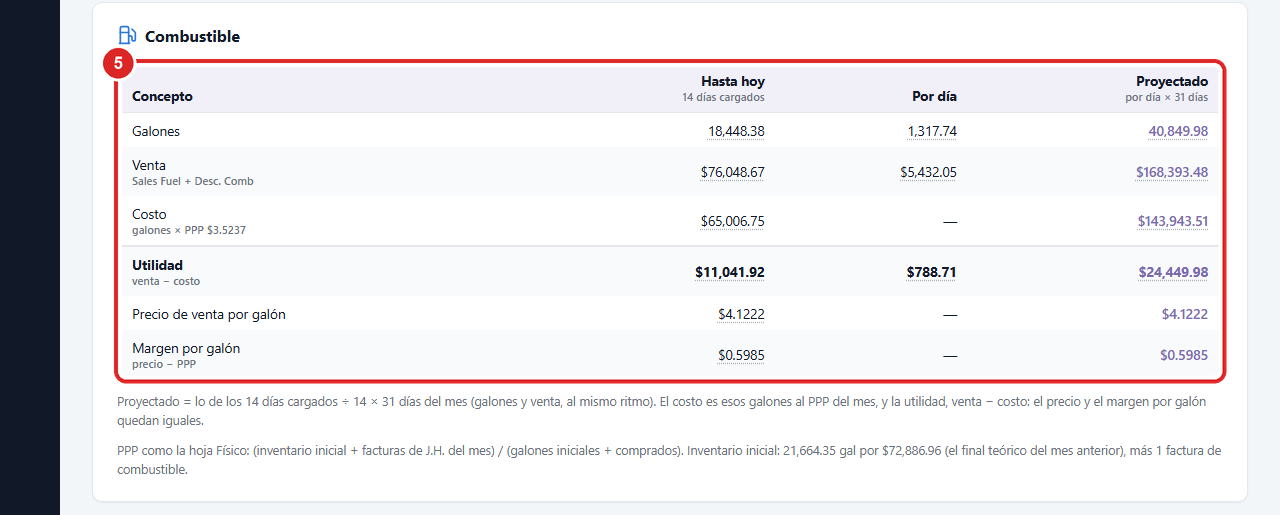
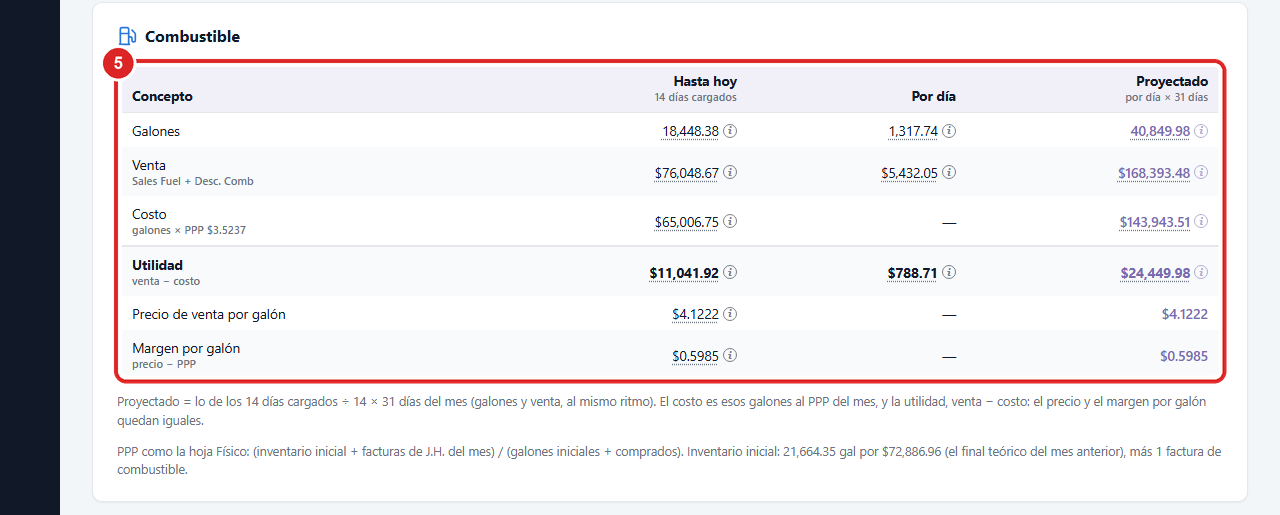
Proyecciones, bloque 2: C-Store bruto de descuentos, % como supuesto, "i" con clic y lista de lo sin categoría
- La venta del C-Store dice que es bruta de descuentos, con un renglón "Descuentos (Desc. Otros)" que no se resta (los % van sobre la venta bruta, como el Excel).
- Los % teóricos en azul con la marca "supuesto" (también en el desglose); siguen editables en la página.
- Cada número con su cuenta lleva una "i" al lado que abre el cartel con un clic o un toque (sirve en el celular); el subrayado se ve más.
- El aviso de Chase sin categoría (Panel y desglose) trae "Ver los movimientos" con la lista.
- Manual y capturas al día.

diff --git a/templates/reportes_proyecciones.html b/templates/reportes_proyecciones.html
@@ -109,6 +109,15 @@
   .proy-source.bad i { background: var(--error); }
   .proy-source.bad { border-color: #FECACA; background: #FEF2F2; }
   .proy-sources-note { flex-basis: 100%; color: var(--error); font-weight: 600; }
+  .proy-pending-list { margin-top: 8px; }
+  .proy-pending-list summary { font-weight: 600; }
+  .proy-pending-list table { margin-top: 8px; border-collapse: collapse; font-size: 12.5px; font-variant-numeric: tabular-nums; }
+  .proy-pending-list td { padding: 3px 10px 3px 0; border-bottom: 1px solid #FDE68A; vertical-align: top; }
+  .proy-pending-list td.num { text-align: right; white-space: nowrap; }
+  /* Los % teóricos son supuestos, no datos (2026-11-24). */
+  .proy-assume { color: #1D4ED8; }
+  .proy-margin-input.proy-assume { border-color: #93C5FD; background: #EFF6FF; color: #1D4ED8; font-weight: 600; }
+  .proy-assume-tag { display: inline-block; font-size: 10.5px; font-weight: 700; text-transform: uppercase; letter-spacing: 0.03em; color: #1D4ED8; background: #EFF6FF; border: 1px solid #BFDBFE; border-radius: 999px; padding: 0 6px; margin-left: 4px; }
   .proy-alert { margin-bottom: 18px; padding: 12px 16px; border-radius: var(--radius); border: 1px solid #FCD34D; background: #FFFBEB; font-size: 13.5px; line-height: 1.5; }
   /* El puente de la venta a la utilidad neta (2026-11-24). */
   .proy-bridge { width: 100%; border-collapse: collapse; font-size: 14px; font-variant-numeric: tabular-nums; }
@@ -198,6 +207,16 @@
   Hay <strong>{{ money(net.pending.amount) }}</strong> en {{ net.pending.count }} débito{{ '' if net.pending.count == 1 else 's' }} de Chase sin categoría en {{ month_name|lower }}.
   No entran en la utilidad neta hasta que los categorices en <a href="{{ url_for('chase_historial', year=year, month=month) }}">Carga de Datos → Chase</a>
   (si son pagos de combustible a J.H., ya están contados en el costo por el PPP).
+  <details class="proy-pending-list">
+    <summary>Ver los movimientos</summary>
+    <table>
+      <tbody>
+        {% for it in net.pending["items"] %}
+        <tr><td>{{ it.date[8:10] }}/{{ it.date[5:7] }}</td><td>{{ it.description }}</td><td class="num">{{ money(it.amount) }}</td></tr>
+        {% endfor %}
+      </tbody>
+    </table>
+  </details>
 </div>
 {% endif %}
 
@@ -206,19 +225,19 @@
   {# La utilidad neta, y tocándola el desglose (pedido del usuario, 2026-11-02). #}
   <a class="proy-kpi proy-kpi-hero proy-kpi-link" href="{{ url_for('proyecciones_utilidad_neta', year=year, month=month) }}">
     <div class="proy-kpi-label">Utilidad neta proyectada <span class="proy-kpi-more">Ver desglose &rarr;</span></div>
-    <div class="proy-kpi-value" data-count="{{ net.net.proj or 0 }}"{{ fx(net.net.formula.proj) }}>{{ money(net.net.proj, 0) }}</div>
+    <div class="proy-kpi-value"><span data-count="{{ net.net.proj or 0 }}"{{ fx(net.net.formula.proj) }}>{{ money(net.net.proj, 0) }}</span></div>
     <div class="proy-kpi-sub">bruta {{ money(net.gross.proj, 0) }} − gastos {{ money(net.expenses.proj, 0) }}</div>
   </a>
   <div class="proy-kpi proy-kpi-fuel">
     <div class="proy-kpi-label">{{ icon_fuel() }}Combustible</div>
-    <div class="proy-kpi-value" data-count="{{ p.fuel_proj.sales or 0 }}"{{ fx(f.fuel_sales_proj) }}>{{ money(p.fuel_proj.sales, 0) }}</div>
+    <div class="proy-kpi-value"><span data-count="{{ p.fuel_proj.sales or 0 }}"{{ fx(f.fuel_sales_proj) }}>{{ money(p.fuel_proj.sales, 0) }}</span></div>
     <div class="proy-kpi-sub">venta proyectada · {{ num(p.fuel_proj.gallons, 0) }} gal</div>
   </div>
   {# Tocando el C-Store se baja al cuadro por rubro (pedido del usuario, 2026-11-02). #}
   <a class="proy-kpi proy-kpi-cstore proy-kpi-link" href="#proy-cstore">
     <div class="proy-kpi-label">{{ icon_cstore() }}C-Store</div>
-    <div class="proy-kpi-value" data-count="{{ cs.proj or 0 }}"{{ fx(f.cstore.proj) }}>{{ money(cs.proj, 0) }}</div>
-    <div class="proy-kpi-sub">venta proyectada · margen {{ pct(cs.margin) }}</div>
+    <div class="proy-kpi-value"><span data-count="{{ cs.proj or 0 }}"{{ fx(f.cstore.proj) }}>{{ money(cs.proj, 0) }}</span></div>
+    <div class="proy-kpi-sub">venta proyectada, bruta de descuentos · margen {{ pct(cs.margin) }}</div>
   </a>
 </div>
 
@@ -404,7 +423,7 @@
     <div class="historial-table-wrap">
       <table class="historial-table proy-num-table">
         <thead>
-          <tr><th>Rubro</th><th>Vendido</th><th>% teórico</th><th>Utilidad</th><th>Proyectado</th><th>Utilidad proyectada</th></tr>
+          <tr><th>Rubro</th><th>Vendido<span class="proy-th-sub">bruto de descuentos</span></th><th>% teórico <span class="proy-assume-tag">supuesto</span></th><th>Utilidad</th><th>Proyectado</th><th>Utilidad proyectada</th></tr>
         </thead>
         <tbody>
           {% for r in p.cstore.rubros %}
@@ -421,13 +440,13 @@
           {% elif r.lottery %}
           {# Lottery por su % teórico, como los demás rubros; la comisión real queda de referencia (2026-11-24). #}
           <tr>
-            <td>{{ r.display }}{% if r.rate_real is not none %} <span class="proy-th-sub"{{ fx(f.rubros[r.label].margin) }}>comisión real {{ pct(r.rate_real) }}</span>{% endif %}</td>
+            <td>{{ r.display }}{% if r.rate_real is not none %} <span class="proy-th-sub"><span{{ fx(f.rubros[r.label].margin) }}>comisión real {{ pct(r.rate_real) }}</span></span>{% endif %}</td>
             {% set fr = f.rubros[r.label] %}
             <td><span{{ fx(fr.amount) }}>{{ money(r.amount) }}</span></td>
             <td>
               {% if is_admin %}
-              <input type="number" step="0.01" min="0" max="100" class="proy-margin-input" name="margin_{{ r.label }}" value="{{ '%.2f'|format(r.margin * 100) }}"> %
-              {% else %}<span{{ fx(fr.margin) }}>{{ pct(r.margin) }}</span>{% endif %}
+              <input type="number" step="0.01" min="0" max="100" class="proy-margin-input proy-assume" name="margin_{{ r.label }}" value="{{ '%.2f'|format(r.margin * 100) }}"> %
+              {% else %}<span class="proy-assume"{{ fx(fr.margin) }}>{{ pct(r.margin) }}</span>{% endif %}
             </td>
             <td><span{{ fx(fr.utilidad) }}>{{ money(r.utilidad) }}</span></td>
             <td class="proy-cell-proj"><span{{ fx(fr.proj) }}>{{ money(r.proj) }}</span></td>
@@ -440,8 +459,8 @@
             <td><span{{ fx(fr.amount) }}>{{ money(r.amount) }}</span></td>
             <td>
               {% if is_admin %}
-              <input type="number" step="0.01" min="0" max="100" class="proy-margin-input" name="margin_{{ r.label }}" value="{{ '%.2f'|format(r.margin * 100) }}"> %
-              {% else %}<span{{ fx(fr.margin) }}>{{ pct(r.margin) }}</span>{% endif %}
+              <input type="number" step="0.01" min="0" max="100" class="proy-margin-input proy-assume" name="margin_{{ r.label }}" value="{{ '%.2f'|format(r.margin * 100) }}"> %
+              {% else %}<span class="proy-assume"{{ fx(fr.margin) }}>{{ pct(r.margin) }}</span>{% endif %}
             </td>
             <td><span{{ fx(fr.utilidad) }}>{{ money(r.utilidad) }}</span></td>
             <td class="proy-cell-proj"><span{{ fx(fr.proj) }}>{{ money(r.proj) }}</span></td>
@@ -459,12 +478,19 @@
             <td class="proy-cell-proj"><span{{ fx(fb.utilidad_proj) }}>{{ money(block.utilidad_proj) }}</span></td>
           </tr>
           {% endfor %}
+          {% set disc = p.cstore.discounts %}
+          <tr class="proy-row-aside">
+            <td>Descuentos (Desc. Otros) <span class="proy-th-sub">no se restan: los % van sobre la venta bruta, como el Excel</span></td>
+            <td>{{ money(disc.amount) }}</td><td>—</td><td>—</td>
+            <td class="proy-cell-proj">{{ money(disc.proj) }}</td><td class="proy-cell-proj">—</td>
+          </tr>
         </tbody>
       </table>
     </div>
     {% if is_admin %}<div class="proy-actions action-row"><button type="submit">Guardar %</button><span class="muted">Vale para {{ month_name|lower }} {{ year }} y los meses siguientes; los anteriores no cambian.</span></div>{% endif %}
   </form>
   <p class="muted proy-note">
+    Los % teóricos (en azul) son supuestos, no datos: se cambian acá y valen desde el mes que estás mirando.
     Lottery va por su % teórico, como los demás rubros.
     {% if not lot.estimated %}
     Como referencia, la comisión real (On-Line + Skoff) de las semanas que se pagan a Chase en el mes, del {{ lot.first.strftime('%d/%m') }} al {{ lot.last.strftime('%d/%m') }}

diff --git a/templates/manual.html b/templates/manual.html
@@ -759,7 +759,7 @@
       <p class="manual-lede">Lo vendido hasta hoy y lo proyectado a fin de mes, como la hoja Store Info del Excel Cierre con los días reales del mes.</p>
       {{ shot('proyecciones', 'Proyecciones') }}
       <ol class="manual-steps">
-        <li><span class="n">1</span><p>Elegí el mes. La barra dice cuántos días tienen el Close Store cargado, y abajo hasta qué día está cargado Close Store, Chase y Cupones: verde al día, ámbar atrasado, rojo muy atrasado (con una fuente en rojo la proyección no es confiable). Si hay débitos de Chase sin categoría, un aviso dice cuánto suman: no entran en la utilidad neta hasta categorizarlos.</p></li>
+        <li><span class="n">1</span><p>Elegí el mes. La barra dice cuántos días tienen el Close Store cargado, y abajo hasta qué día está cargado Close Store, Chase y Cupones: verde al día, ámbar atrasado, rojo muy atrasado (con una fuente en rojo la proyección no es confiable). Si hay débitos de Chase sin categoría, un aviso dice cuánto suman (con <b>Ver los movimientos</b>, la lista): no entran en la utilidad neta hasta categorizarlos.</p></li>
         <li><span class="n">2</span><p><b>Utilidad neta proyectada</b>. Tocala (Ver desglose) para el detalle.</p></li>
         <li><span class="n">3</span><p>La venta proyectada de combustible y del C-Store.</p></li>
         <li><span class="n">4</span><p><b>De la venta a la utilidad neta</b>: el margen de ventas (combustible + C-Store con Lottery) + otros ingresos − fees de tarjeta = utilidad bruta − gastos = utilidad neta. Más abajo, el margen de ventas por unidad y por rubro.</p></li>
@@ -770,13 +770,13 @@
       </ol>
       {{ shot('proyecciones-rubro', 'C-Store por rubro y Control contra el Balance') }}
       <ol class="manual-steps" start="6">
-        <li><span class="n">6</span><p>C-Store por rubro: lo vendido, el % teórico de utilidad y lo proyectado. El % de cada rubro se puede cambiar, Lottery incluido (al lado, su comisión real como referencia).</p></li>
+        <li><span class="n">6</span><p>C-Store por rubro: lo vendido (bruto de descuentos, como el Excel; los descuentos van en su renglón, abajo), el % teórico de utilidad y lo proyectado. Los % en azul son supuestos: se pueden cambiar, Lottery incluido (al lado, su comisión real como referencia).</p></li>
         <li><span class="n">7</span><p><b>Guardar %</b> después de cambiarlo. Vale para el mes que estás mirando y los siguientes; los meses anteriores no cambian.</p></li>
         <li><span class="n">8</span><p><b>Control contra el Balance</b>: con el mes cerrado, subí el Excel del Bce (hoja BALANCE HISTORICO). Se ve lo real al lado de lo proyectado.</p></li>
       </ol>
       <div class="manual-tip"><b>Tené en cuenta:</b>
         <ul>
-          <li>Pasá el cursor por encima de un número (los subrayados con puntos): aparece un cartel con la cuenta de cómo se llegó a él, con los valores. Tocarlo sigue abriendo el desglose donde lo hay.</li>
+          <li>Pasá el cursor por encima de un número (los subrayados con puntos), o tocá la <b>i</b> de al lado (sirve en el celular): aparece un cartel con la cuenta de cómo se llegó a él, con los valores. Tocar el número sigue abriendo el desglose donde lo hay.</li>
           <li>Kia / Toyota no entra en la utilidad: es combustible a cuenta, no ganancia.</li>
         </ul>
       </div>

diff --git a/templates/base.html b/templates/base.html
@@ -2270,12 +2270,41 @@
         current = null;
         if (tip) tip.classList.remove('show');
       }
+      // Un "i" al lado de cada número con su cuenta, que abre el cartel con
+      // un clic o un toque (2026-11-24: en el celular no hay cursor).
+      let pinned = false;
+      function addIcons() {
+        document.querySelectorAll('[data-formula]').forEach(function (el) {
+          if (el.hasAttribute('data-fx-icon') || !el.getAttribute('data-formula')) return;
+          el.setAttribute('data-fx-icon', '');
+          const icon = document.createElement('button');
+          icon.type = 'button';
+          icon.className = 'formula-i';
+          icon.textContent = 'i';
+          icon.setAttribute('aria-label', 'Cómo se calcula');
+          el.insertAdjacentElement('afterend', icon);
+        });
+      }
+      addIcons();
+      document.addEventListener('click', function (event) {
+        const icon = event.target.closest && event.target.closest('.formula-i');
+        if (icon) {
+          event.preventDefault();
+          event.stopPropagation();
+          const target = icon.previousElementSibling;
+          if (pinned && current === target) { pinned = false; hide(); return; }
+          if (target) { show(target); pinned = true; }
+          return;
+        }
+        if (pinned) { pinned = false; hide(); }
+      }, true);
       document.addEventListener('mouseover', function (event) {
+        if (pinned) return;
         const target = event.target.closest && event.target.closest('[data-formula]');
         if (target && target !== current && target.getAttribute('data-formula')) show(target);
         else if (!target && current) hide();
       });
-      document.addEventListener('scroll', hide, true);
+      document.addEventListener('scroll', function () { pinned = false; hide(); }, true);
     })();
   </script>
 </body>

diff --git a/templates/proyecciones_neta.html b/templates/proyecciones_neta.html
@@ -38,6 +38,8 @@
   .proy-source.bad i { background: var(--error); }
   .proy-source.bad { border-color: #FECACA; background: #FEF2F2; }
   .proy-sources-note { flex-basis: 100%; text-align: center; color: var(--error); font-weight: 600; }
+  .neta-pending-list { margin-top: 4px; font-style: normal; }
+  .neta-pending-list summary { font-weight: 600; }
   .neta-pending td { color: var(--text-soft); font-style: italic; border-top: 1px dashed var(--border); }
 </style>
 {% endblock %}
@@ -166,7 +168,10 @@
         {% if n.pending.count %}
         <tr class="neta-pending">
           <td>Sin categoría en Chase (pendiente)</td>
-          <td class="neta-col-src">{{ n.pending.count }} débito{{ '' if n.pending.count == 1 else 's' }} sin categoría: no entran en la utilidad neta hasta que se categoricen en <a href="{{ url_for('chase_historial', year=year, month=month) }}">Chase</a>.</td>
+          <td class="neta-col-src">{{ n.pending.count }} débito{{ '' if n.pending.count == 1 else 's' }} sin categoría: no entran en la utilidad neta hasta que se categoricen en <a href="{{ url_for('chase_historial', year=year, month=month) }}">Chase</a>.
+            <details class="neta-pending-list"><summary>Ver los movimientos</summary>
+              {% for it in n.pending["items"] %}<div>{{ it.date[8:10] }}/{{ it.date[5:7] }} · {{ it.description }} · {{ money(it.amount) }}</div>{% endfor %}
+            </details></td>
           <td>{{ neg(n.pending.amount) }}</td><td>—</td>
           {% if n.has_bce %}<td></td>{% endif %}
         </tr>

diff --git a/static/base.css b/static/base.css
@@ -1214,7 +1214,14 @@ a[aria-busy="true"] { opacity: 0.55; pointer-events: none; }
    un elemento con data-formula (pedido del usuario, 2026-11-24; Panel de
    proyecciones). Es uno solo para toda la página, fuera de las tablas, así
    un contenedor con overflow no lo corta. */
-[data-formula] { text-decoration: underline dotted rgba(107, 114, 128, 0.55); text-underline-offset: 3px; }
+[data-formula] { text-decoration: underline dotted rgba(75, 85, 99, 0.8); text-underline-offset: 3px; }
+/* El "i" que abre el cartel con un clic o un toque (2026-11-24). */
+button.formula-i {
+  display: inline-flex; align-items: center; justify-content: center; width: 14px; height: 14px; min-width: 0; min-height: 0;
+  margin: 0 0 0 4px; padding: 0; border: 1px solid currentColor; border-radius: 50%; background: transparent; box-shadow: none;
+  color: inherit; opacity: 0.55; font: italic 700 9.5px/1 Georgia, serif; vertical-align: 2px; transform: none;
+}
+button.formula-i:hover, button.formula-i:focus-visible { opacity: 1; background: transparent; transform: none; }
 .formula-tip {
   position: fixed; z-index: 2000; max-width: 380px; padding: 9px 12px;
   background: #111827; color: #F9FAFB; border-radius: 8px; box-shadow: 0 8px 24px rgba(17, 24, 39, 0.25);

diff --git a/proyecciones_neta.py b/proyecciones_neta.py
@@ -257,7 +257,7 @@ def build_net(year, month, projection=None):
 
     rubros = [r for r in p["cstore"]["rubros"] if r["in_balance"]]
     cstore = _group("C-Store", [
-        _line(r["display"], f"Close Store × {r['margin'] * 100:.0f} %", r["utilidad"], r["utilidad_proj"], formula={
+        _line(r["display"], f"Close Store × {r['margin'] * 100:.0f} % (supuesto)", r["utilidad"], r["utilidad_proj"], formula={
             "actual": f"Vendido {_money(r['amount'])} × {r['margin'] * 100:.2f} % = {_money(r['utilidad'])}",
             "proj": (f"Proyectado {_money(r['proj'])} × {r['margin'] * 100:.2f} % = {_money(r['utilidad_proj'])}"
                      if r["proj"] is not None else None),
@@ -269,7 +269,7 @@ def build_net(year, month, projection=None):
     # Lottery por su % teórico, como en el Panel (pedido del usuario, 2026-11-24).
     lotto = next(r for r in p["cstore"]["rubros"] if r.get("lottery"))
     lottery = _group("Lottery", [_line(
-        "Venta de LOTTO", f"Close Store × {lotto['margin'] * 100:.2f} %", lotto["utilidad"], lotto["utilidad_proj"],
+        "Venta de LOTTO", f"Close Store × {lotto['margin'] * 100:.2f} % (supuesto)", lotto["utilidad"], lotto["utilidad_proj"],
         formula={"actual": f"Vendido {_money(lotto['amount'])} × {lotto['margin'] * 100:.2f} % = {_money(lotto['utilidad'])}",
                  "proj": (f"Proyectado {_money(lotto['proj'])} × {lotto['margin'] * 100:.2f} % = {_money(lotto['utilidad_proj'])}"
                           if lotto["proj"] is not None else None)})],
@@ -325,7 +325,10 @@ def build_net(year, month, projection=None):
     # hasta que se categorice (2026-11-24).
     uncategorized = [tx for tx in chase_db.get_month_transactions(year, month)
                      if not (tx.get("detalle") or "") and (tx.get("amount") or 0.0) < 0]
-    pending = {"amount": -sum(tx.get("amount") or 0.0 for tx in uncategorized) + 0.0, "count": len(uncategorized)}
+    pending = {"amount": -sum(tx.get("amount") or 0.0 for tx in uncategorized) + 0.0, "count": len(uncategorized),
+               "items": [{"date": str(tx.get("posting_date") or tx.get("date") or "")[:10],
+                          "description": tx.get("description") or "", "amount": tx.get("amount") or 0.0}
+                         for tx in uncategorized]}
     expenses = _group("Gastos", expense_lines, bce=bce("gastos_directos", "otros_gastos", sign=-1))
 
     def add(groups, field):

diff --git a/proyecciones.py b/proyecciones.py
@@ -178,6 +178,7 @@ def _month_days(year, month):
             "lotto": by_group.get("LOTERY/LOTTO", 0.0),
             "kia": by_group.get("Gettel", 0.0),
             "total": fuel_sales + cstore,
+            "desc_otros": row.get("desc_otros") or 0.0,
         })
     return days
 
@@ -235,6 +236,11 @@ def _summary(year, month, days, margins, upto=None):
     for block in (cstore["total"], cstore["balance"]):
         block["margin"] = _ratio(block["utilidad"], block["amount"])
         block["margin_proj"] = _ratio(block["utilidad_proj"], block["proj"])
+    # Los descuentos del C-Store (Desc. Otros de Store Info): la venta por rubro
+    # es bruta de ellos y los % se aplican sobre esa venta bruta, como el Excel
+    # (2026-11-24: que se vea).
+    discounts = sum(d.get("desc_otros", 0.0) for d in days)
+    cstore["discounts"] = {"amount": discounts, "proj": _project(discounts, loaded, days_in_month)}
 
     return {
         "days_in_month": days_in_month,
